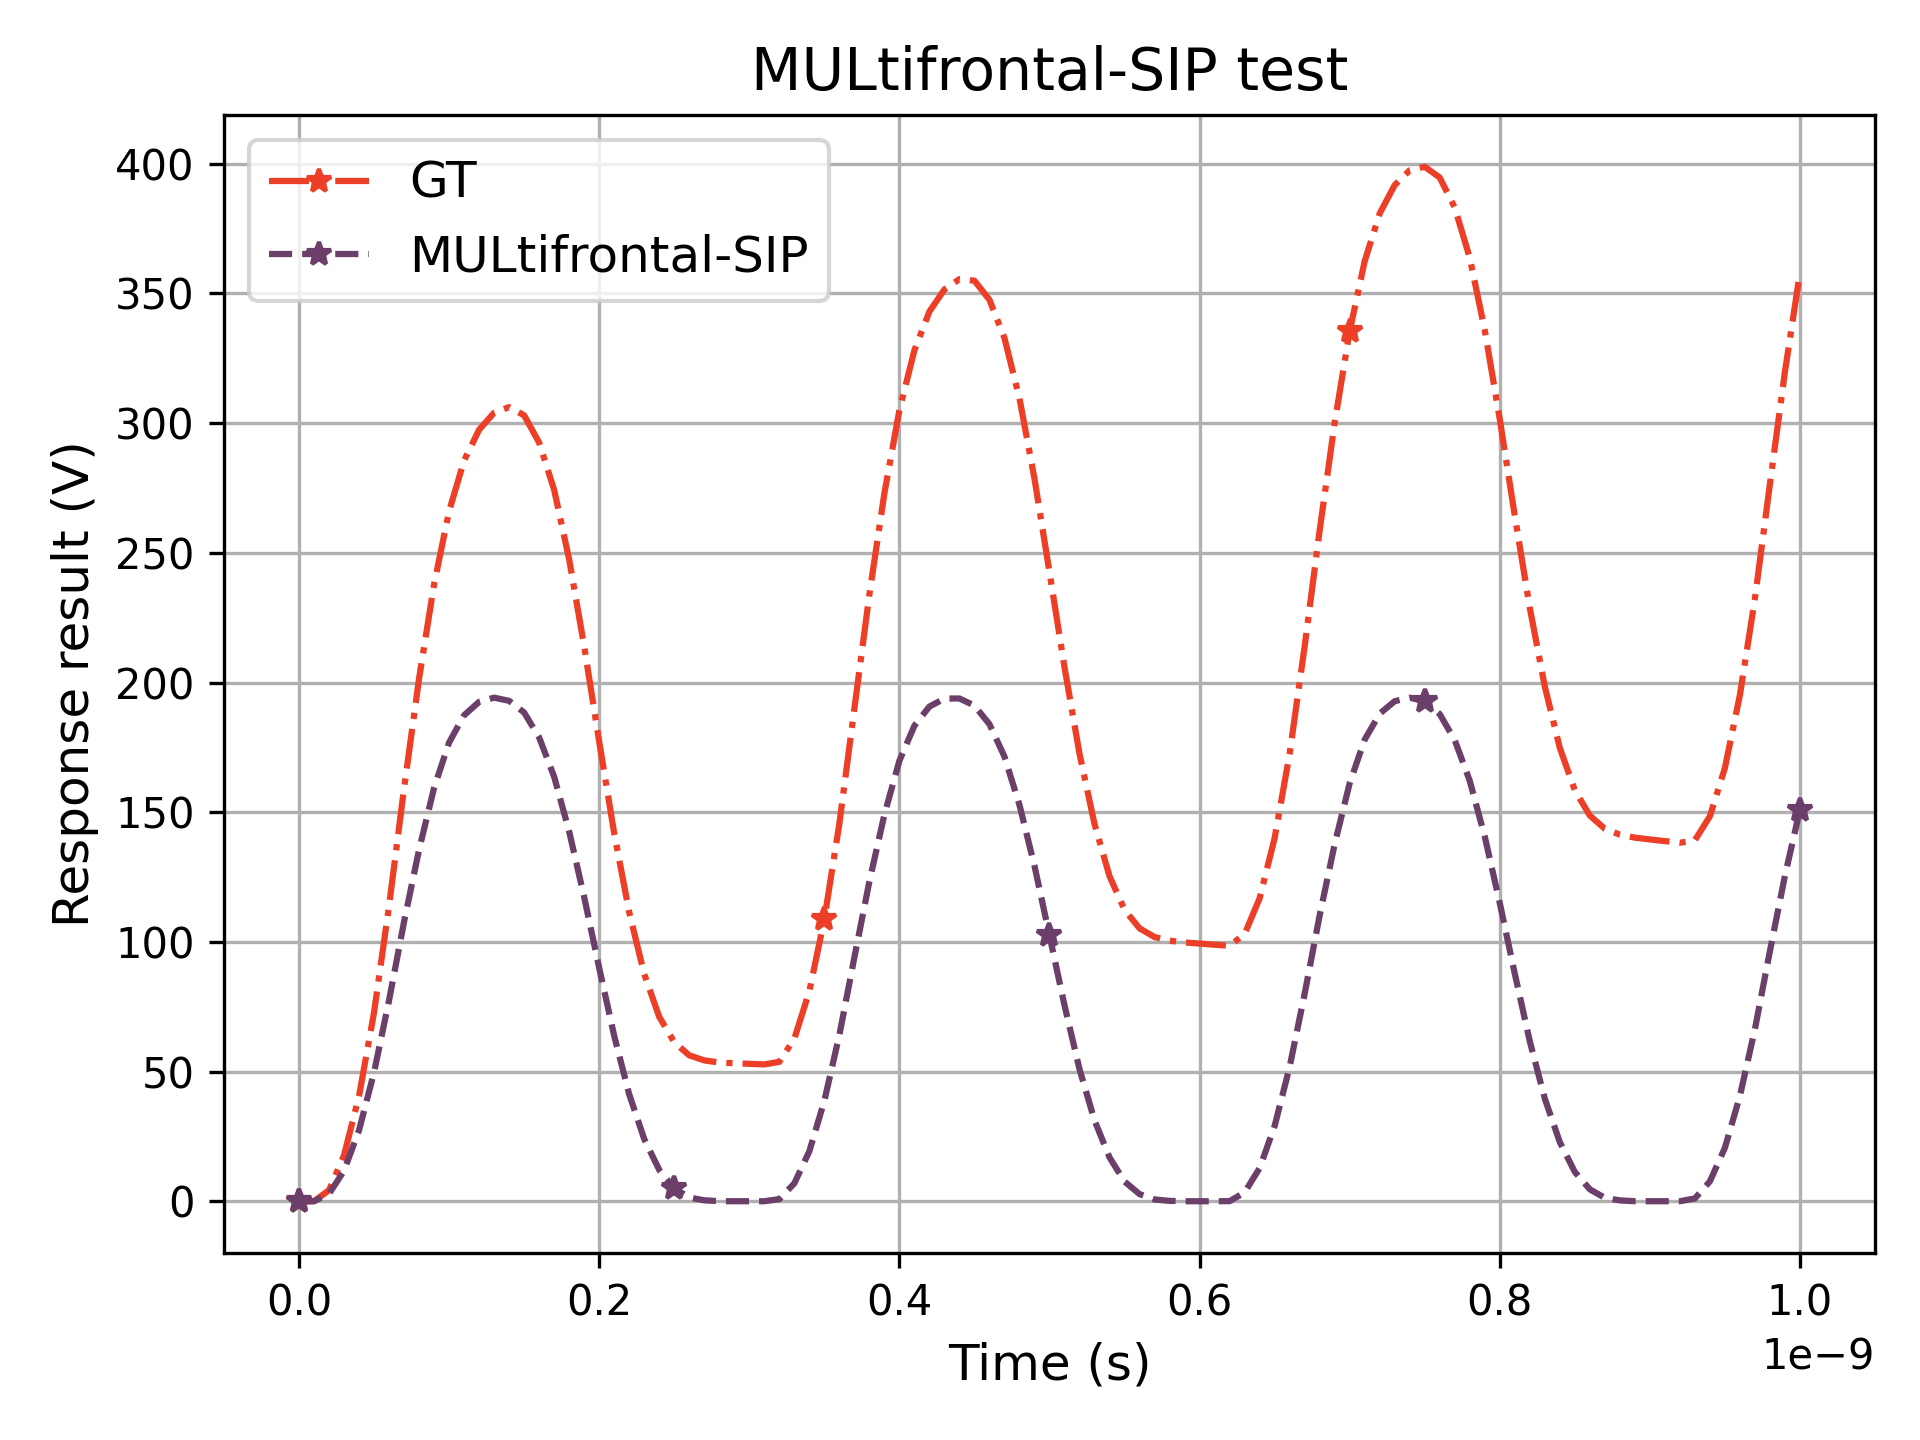
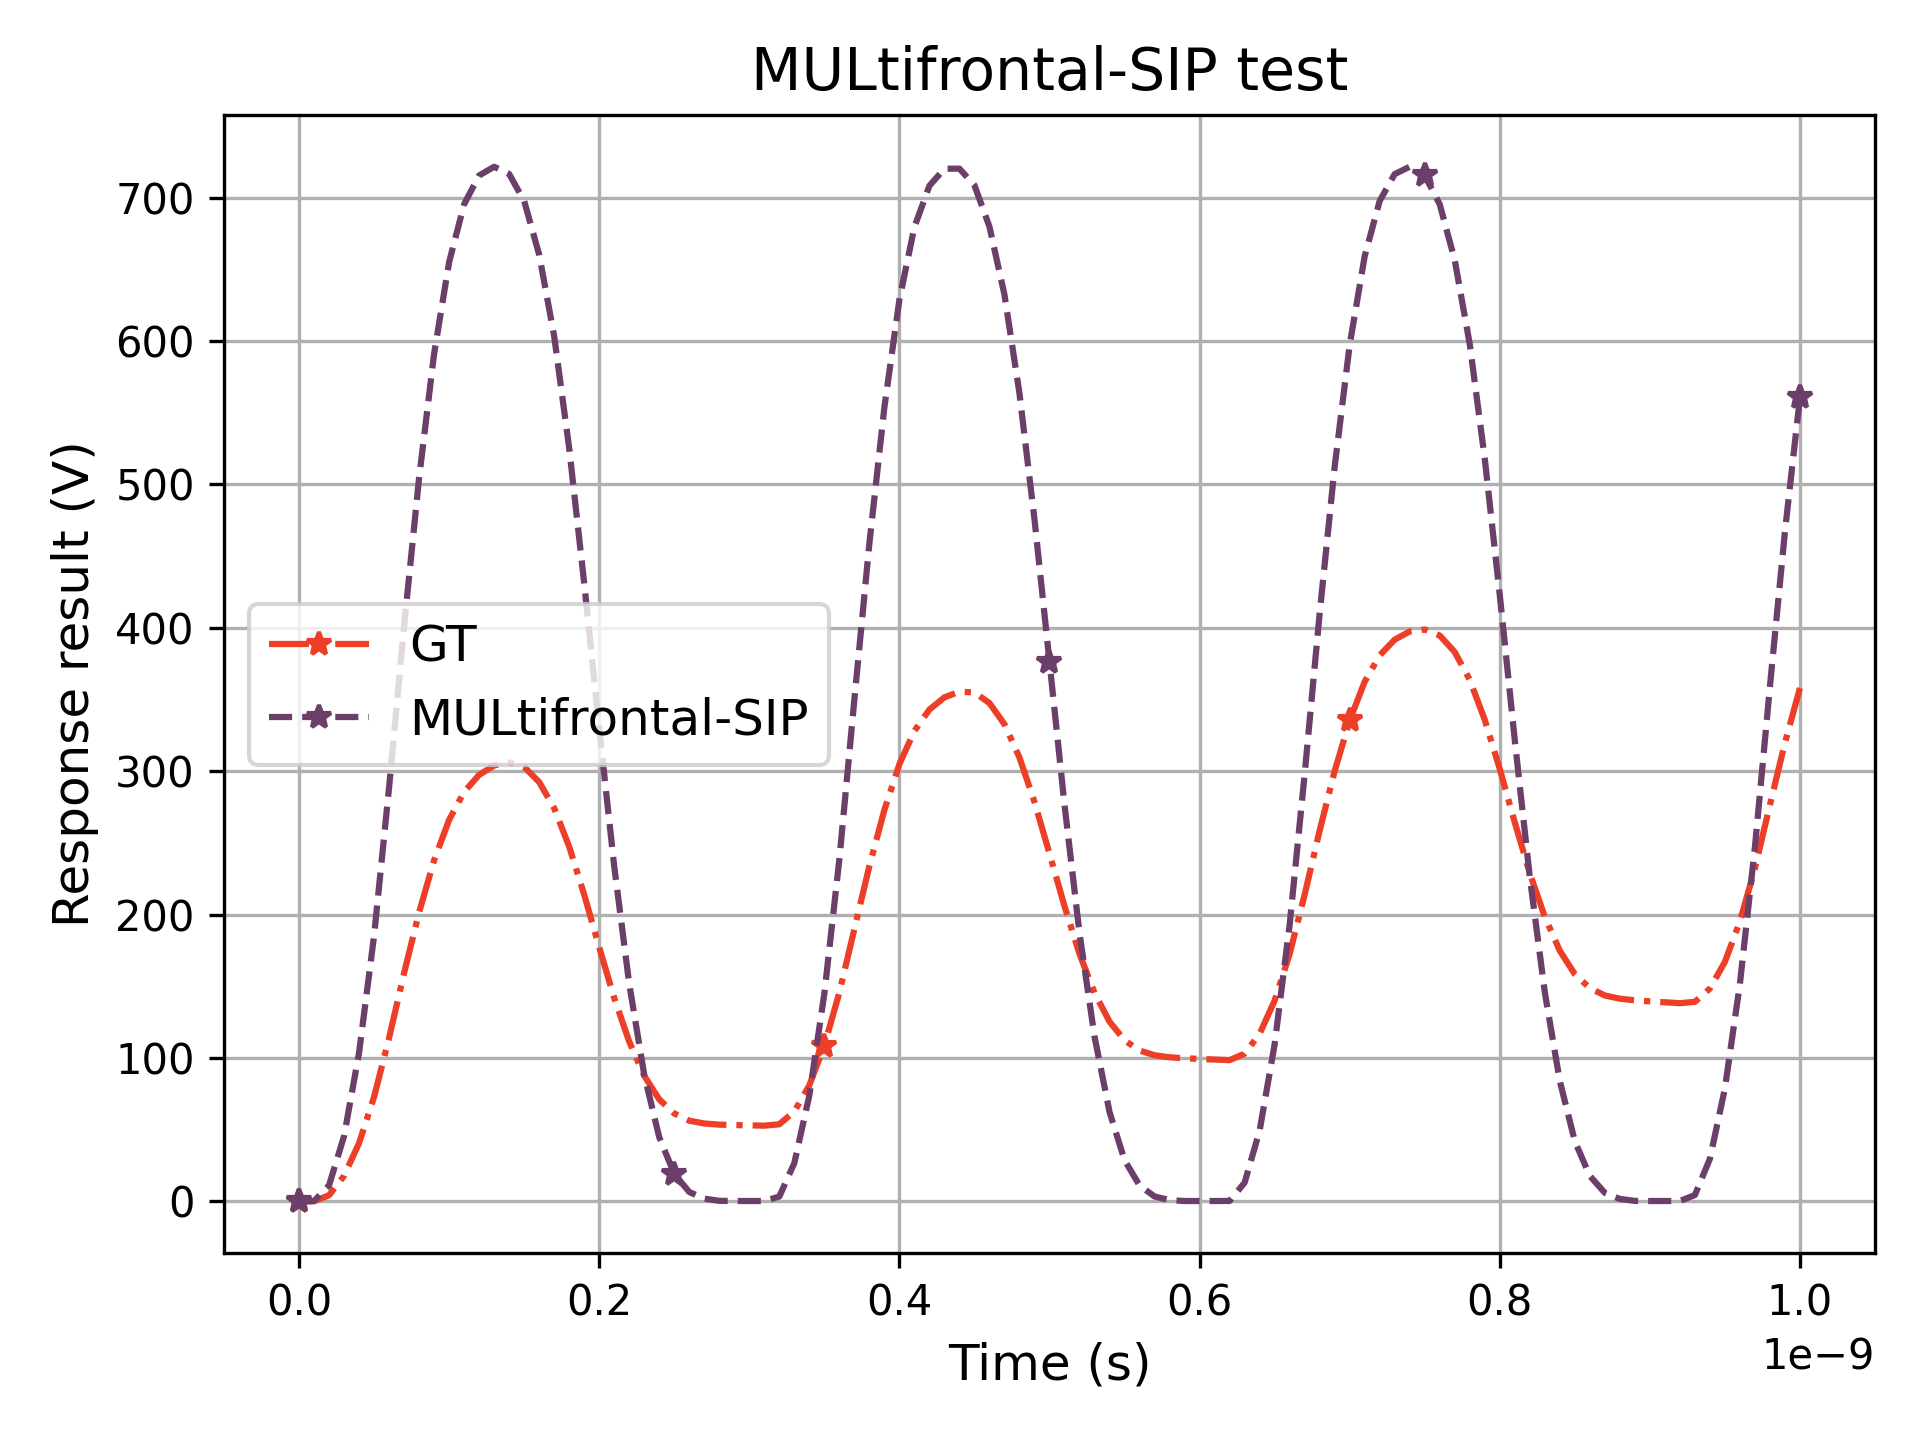
MSIP-BDSM res and verify

diff --git a/verify_msipbdsm.py b/verify_msipbdsm.py
@@ -1,7 +1,7 @@
 import numpy as np
 import argparse
 import scipy.io as spio
-from scipy.sparse import coo_matrix
+from scipy.sparse import coo_matrix, block_diag
 import matplotlib.pyplot as plt
 from generate_mf_mor_data import generate_u, generate_udiff
 from utils.tdIntLinBE_new import *
@@ -58,8 +58,7 @@ def load_coo_txt(path, shape=None, delimiter=None, comment='#', to='csr', dtype=
             parts = line.split(delimiter) if delimiter else line.split()
 
             # 第一行: 矩阵维度
-            # if detected_shape is None and len(parts) == 3 and "(" not in parts[2]:
-            if detected_shape is None :
+            if detected_shape is None:
                 detected_shape = (int(parts[0]), int(parts[1]))
                 continue
 
@@ -82,24 +81,46 @@ def load_coo_txt(path, shape=None, delimiter=None, comment='#', to='csr', dtype=
     return coo_from_triplets(rows, cols, vals, shape=final_shape, to=to, dtype=dtype)
 
 if __name__ == "__main__":
-    parser = argparse.ArgumentParser(description='vertify msip')
+    parser = argparse.ArgumentParser(description='vertify msip + BDSM')
     parser.add_argument('--circuit', type=int, default=6, help='Circuit number')
     parser.add_argument("--port_num", type=int, default= 10000)
+    parser.add_argument("--block", type=int, default= 2)
     args = parser.parse_args()
     data = spio.loadmat("/home/fillip/桌面/CPM-MOR/IBM_transient/{}t_SIP_gt.mat".format(args.circuit))
     port_num = args.port_num
+    block = args.block
     C1, G1, B1 = data['C_final'] * 1e-0, data['G_final'], data['B_final']
     B1 = B1.tocsc()
     C1 = C1.tocsc()
     G1 = G1.tocsc()
-
-    C2 = load_coo_txt(f'/home/fillip/桌面/MUMPS/MUMPS_5.7.1/examples/result/{args.circuit}t/SIP_C_sip',to = 'csr')
-    G2 = load_coo_txt(f'/home/fillip/桌面/MUMPS/MUMPS_5.7.1/examples/result/{args.circuit}t/SIP_G_sip',to = 'csr')
-    C2 = C2.tocsc()
-    G2 = G2.tocsc()
-    B2 = B1[-G2.shape[0]:,:port_num]
-
     B1 = B1[:,:port_num]
+
+    Cr = load_coo_txt(f'/home/fillip/桌面/MUMPS/MUMPS_5.7.1/examples/result/{args.circuit}t/SIP_C',to = 'csr')
+    Gr = load_coo_txt(f'/home/fillip/桌面/MUMPS/MUMPS_5.7.1/examples/result/{args.circuit}t/SIP_G',to = 'csr')
+    Cr = Cr.tocsc()
+    Gr = Gr.tocsc()
+    # Cr1 = load_coo_txt(f'/home/fillip/桌面/MUMPS/MUMPS_5.7.1/examples/result/{args.circuit}t/SIP_C1',to = 'csr')
+    # Gr1 = load_coo_txt(f'/home/fillip/桌面/MUMPS/MUMPS_5.7.1/examples/result/{args.circuit}t/SIP_G1',to = 'csr')
+    # Cr1 = Cr1.tocsc()
+    # Gr1 = Gr1.tocsc()
+    # Cr2 = load_coo_txt(f'/home/fillip/桌面/MUMPS/MUMPS_5.7.1/examples/result/{args.circuit}t/SIP_C2',to = 'csr')
+    # Gr2 = load_coo_txt(f'/home/fillip/桌面/MUMPS/MUMPS_5.7.1/examples/result/{args.circuit}t/SIP_G2',to = 'csr')
+    # Cr2 = Cr2.tocsc()
+    # Gr2 = Gr2.tocsc()
+    # Cr = block_diag((Cr1, Cr2), format="csc")
+    # Gr = block_diag((Gr1, Gr2), format="csc")
+    data1 = spio.loadmat("/home/fillip/桌面/CPM-MOR/IBM_transient/{}t_SIP1.mat".format(args.circuit))
+    B2 = data1['B_final']
+    B2 = B2.tocsc()
+
+    schur_size = port_num / block
+    B2 = B2[-5000:,:5000]
+    data2 = spio.loadmat("/home/fillip/桌面/CPM-MOR/IBM_transient/{}t_SIP2.mat".format(args.circuit))
+    B3 = data2['B_final']
+    B3 = B3.tocsc()
+    B3 = B3[-5000:,5000:10000]
+    Br = block_diag((B2, B3), format="csc")
+
     f = 9
 
     t0 = 0
@@ -112,9 +133,9 @@ if __name__ == "__main__":
     xAll, time1, dtAll, uAll = tdIntLinBE_new(t0, tf, dt, C1, G1, B1, VS, IS, x0, srcType)
     y = B1.T@xAll
 
-    xr0 = np.zeros((C2.shape[0], 1))
-    xrAll, time2, dtAll, urAll = tdIntLinBE_new(t0, tf, dt, C2, G2, B2, VS, IS, xr0, srcType)
-    y_mor = B2.T@xrAll
+    xr0 = np.zeros((Cr.shape[0], 1))
+    xrAll, time2, dtAll, urAll = tdIntLinBE_new(t0, tf, dt, Cr, Gr, Br, VS, IS, xr0, srcType)
+    y_mor = Br.T@xrAll
 
     yy = y[0,:]
     yy_mor = y_mor[0,:]
@@ -123,12 +144,12 @@ if __name__ == "__main__":
         yy_mor = yy_mor + y_mor[i,:]
 
     plt.plot(time1, yy, color='#ED3F27', linestyle='-.', marker='*', label='GT', markevery = 35, markersize=6, linewidth=1.5)
-    plt.plot(time2, yy_mor, color='#6B3F69', linestyle='--', marker='*', label='MULtifrontal-SIP', markevery = 25, markersize=6, linewidth=1.5)
+    plt.plot(time2, yy_mor, color='#6B3F69', linestyle='--', marker='*', label='MUL-SIP-BDSM', markevery = 25, markersize=6, linewidth=1.5)
     plt.xlabel("Time (s)", fontsize=12)
     plt.ylabel("Response result (V)", fontsize=12)
     plt.legend(fontsize=12)
     plt.grid()
-    plt.title("MULtifrontal-SIP test", fontsize=14)
+    plt.title("SIP-BDSM test", fontsize=14)
     plt.tight_layout()
-    plt.savefig('MULtifrontal-SIP_{}t_{}_10000.png'.format(args.circuit,f), dpi=300)
+    plt.savefig('SIP-BDSM_{}t_{}_10000.png'.format(args.circuit,f), dpi=300)
     pass

diff --git a/SVDMOR.py b/SVDMOR.py
@@ -18,79 +18,6 @@ import os
 import logging
 
 def svdmor(G, in_mat, out_mat, threshold, load_path=None):
-    
-    lu = splu(G)
-    # L = spsolve(lu.U.T, out_mat)
-    # R = spsolve(lu.L, in_mat)
-    if load_path == None:
-        # L = lu.solve(out_mat.toarray(), trans='T')  # 直接求解 U.T x = out_mat
-        # R = lu.solve(in_mat.toarray(), trans='N')
-        # L = lu.L.T @ L
-        # R = lu.U @ R
-
-        #method 1
-        # L = spsolve(lu.U.T, out_mat)
-        # R = spsolve(lu.L, in_mat)
-        # B = sp.hstack([L, R])
-        # p = L.shape[1]
-        # q = R.shape[1]
-        # E_l = sp.vstack([
-        #         sp.eye(p),
-        #         sp.csr_matrix((q, p))
-        # ])
-        # E_r = sp.vstack([  
-        #         sp.csr_matrix((p, q)), 
-        #         sp.eye(q),              
-        # ])
-
-        # B = B.toarray()
-        # U, S, V = np.linalg.svd(B, full_matrices=False)
-
-        #method 2
-        L = out_mat
-        R = spsolve(G, in_mat)
-        B = sp.hstack([L, R])
-        p = L.shape[1]
-        q = R.shape[1]
-        E_l = sp.vstack([
-                sp.eye(p),
-                sp.csr_matrix((q, p))
-        ])
-        E_r = sp.vstack([  
-                sp.csr_matrix((p, q)), 
-                sp.eye(q),              
-        ])
-        B = B.toarray()
-        U, S, V = np.linalg.svd(B, full_matrices=False)
-        
-    else:
-        p = out_mat.shape[1]
-        q = in_mat.shape[1]
-        E_l = sp.vstack([
-                sp.eye(p),
-                sp.csr_matrix((q, p))
-        ])
-        E_r = sp.vstack([  
-                sp.csr_matrix((p, q)), 
-                sp.eye(q),              
-        ])
-        U = np.load(load_path+r"/U.npy")
-        S = np.load(load_path+r"/S.npy")
-        V = np.load(load_path+r"/V.npy")
-
-    indices = S >= threshold
-    U_new = U[:, indices]               
-    S_new = S[indices]                  
-    V_new = V[indices, :]
-
-    left = np.diag(S_new)@V_new@E_l
-    right = np.diag(S_new)@V_new@E_r
-    B_r = lu.L@ U_new
-    O_r = lu.U.T@U_new
-
-    return left, right, B_r, O_r
-
-def svdmor_2(G, in_mat, out_mat, threshold, load_path=None):
     if load_path == None:
         L = out_mat
         R = spsolve(G, in_mat)
@@ -127,7 +54,7 @@ def svdmor_2(G, in_mat, out_mat, threshold, load_path=None):
     V_new = V[indices, :]
     left = np.diag(S_new)@V_new@E_l
     right = np.diag(S_new)@V_new@E_r
-    B_r = G@ U_new
+    B_r = G @ U_new
     O_r = U_new
 
     return left, right, B_r, O_r
@@ -157,7 +84,7 @@ if __name__ == '__main__':
     O = B
     
     tic = datetime.now()
-    left, right, B_r, O_r = svdmor_2(G, B, O, threshold = 2,load_path='/home/fillip/home/CPM-MOR/SVDMOR2_res/{}t/'.format(args.circuit))    
+    left, right, B_r, O_r = svdmor(G, B, O, threshold = 2,load_path='/home/fillip/home/CPM-MOR/SVDMOR2_res/{}t/'.format(args.circuit))    
     toc = datetime.now()
     ts = toc - tic
     logging.info("SVD completed. Time used: {}s".format(ts))

diff --git a/verify_preproces.py b/verify_preproces.py
@@ -1,0 +1,60 @@
+import argparse
+import scipy.io as spio
+from scipy.sparse import identity
+import matplotlib.pyplot as plt
+from generate_mf_mor_data import generate_u, generate_udiff
+from utils.tdIntLinBE_new import *
+
+if __name__ == "__main__":
+    parser = argparse.ArgumentParser(description='vertify preproces')
+    parser.add_argument('--circuit', type=int, default=1, help='Circuit number')
+    parser.add_argument("--port_num", type=int, default= 2000)
+    args = parser.parse_args()
+    data = spio.loadmat("/home/fillip/桌面/CPM-MOR/IBM_transient/{}t_SIP.mat".format(args.circuit))
+    port_num = args.port_num
+    C1, G1, B1 = data['C_final'] * 1e-0, data['G_final'], data['B_final']
+    B1 = B1.tocsc()
+    C1 = C1.tocsc()
+    G1 = G1.tocsc()
+    B1 = B1[:,:port_num]
+
+    data = spio.loadmat("/home/fillip/桌面/CPM-MOR/IBM_transient/{}t_SIP.mat".format(args.circuit))
+    C2, G2, B2 = data['C_final'] * 1e-0, data['G_final'], data['B_final']
+    B2 = B2.tocsc()
+    C2 = C2.tocsc()
+    G2 = G2.tocsc()
+    B2 = B2[:,:port_num]
+
+    # G2 = G2 + 1e-10 * identity(G2.shape[0], format="csc")
+    C2 = C2 + 1e-20 * identity(C2.shape[0], format="csc")
+
+    t0 = 0
+    tf = 1e-09
+    dt = 1e-11
+    srcType = 'pulse'
+    IS, VS = generate_udiff(args.port_num, args.circuit, seed = 0)
+    x0 = np.zeros((C1.shape[0], 1))
+
+    xAll, time1, dtAll, uAll = tdIntLinBE_new(t0, tf, dt, C1, G1, B1, VS, IS, x0, srcType)
+    y = B1.T@xAll
+
+    xr0 = np.zeros((C2.shape[0], 1))
+    xrAll, time2, dtAll, urAll = tdIntLinBE_new(t0, tf, dt, C2, G2, B2, VS, IS, xr0, srcType)
+    y_mor = B2.T@xrAll
+
+    yy = y[0,:]
+    yy_mor = y_mor[0,:]
+    for i in range(1, port_num):
+        yy = yy + y[i,:]
+        yy_mor = yy_mor + y_mor[i,:]
+
+    plt.plot(time1, yy, color='#ED3F27', linestyle='-.', marker='*', label='GT', markevery = 35, markersize=6, linewidth=1.5)
+    plt.plot(time2, yy_mor, color='#6B3F69', linestyle='--', marker='*', label='preprocessed', markevery = 25, markersize=6, linewidth=1.5)
+    plt.xlabel("Time (s)", fontsize=12)
+    plt.ylabel("Response result (V)", fontsize=12)
+    plt.legend(fontsize=12)
+    plt.grid()
+    plt.title("SIP-verify test", fontsize=14)
+    plt.tight_layout()
+    plt.savefig('SIP_{}t_verify.png'.format(args.circuit), dpi=300)
+    pass

diff --git a/save_coo.py b/save_coo.py
@@ -78,7 +78,7 @@ def save_aligned_coo(G, C, prefix="matrix"):
     print(f"Aligned sparse matrices saved to {prefix}_G.txt and {prefix}_C.txt")
 
 
-def save_aligned_coo_mumps(G, C, prefix="matrix"):
+def save_aligned_coo_mumps(G, C, circuit, prefix="matrix"):
     """
     将两个稀疏矩阵 G, C 保存为 MUMPS 可读的复数 COO 格式
     - 文件格式: row col (real,imag)
@@ -115,8 +115,8 @@ def save_aligned_coo_mumps(G, C, prefix="matrix"):
                 f.write(f"{r} {c} ({np.real(v):.18e},{np.imag(v):.18e})\n")
 
     # 保存 G, C
-    write_matrix(f"{prefix}_G", G_val)
-    write_matrix(f"{prefix}_C", C_val)
+    write_matrix(f"./SIP_matrix/{circuit}t/{prefix}_G", G_val)
+    write_matrix(f"./SIP_matrix/{circuit}t/{prefix}_C", C_val)
 
     print(f"Saved aligned matrices to {prefix}_G and {prefix}_C (MUMPS format)")
 
@@ -126,22 +126,22 @@ def save_aligned_coo_mumps(G, C, prefix="matrix"):
 # 示例
 if __name__ == "__main__":
     # 构造一个简单的稀疏矩阵
-    circuit = 2
-    data = spio.loadmat("/home/fillip/桌面/CPM-MOR/IBM_transient/{}t_final.mat".format(circuit))
+    circuit = 6
+    data = spio.loadmat("/home/fillip/桌面/CPM-MOR/IBM_transient/{}t_SIP_gt.mat".format(circuit))
     C, G, B = data['C_final'] * 1e-0, data['G_final'], data['B_final']
     B = B.tocsc()
     C = C.tocsc()
     G = G.tocsc()
-    G = G + 1e-10 * identity(G.shape[0], format="csc")
+    # G = G + 1e-10 * identity(G.shape[0], format="csc")
     C = C + 1e-20 * identity(C.shape[0], format="csc")
 
-    f = np.array(0)  # array of targeting frequencies
+    f = np.array(1e9)  # array of targeting frequencies
     s = 1j * 2 * np.pi * f
     G = G + s * C
 
     # save_sparse_to_coo_txt(C, "1tcoo_C")
     # save_sparse_to_coo_txt(G, "1tcoo_G")
-    # save_sparse_to_coo_txt(B, "1tcoo_B")
+    # save_sparse_to_coo_txt(B, "2tcoo_B")
     # save_sparse_to_coo_txt(G + C, "1tcoo_GC")
-    save_aligned_coo_mumps(G, C, prefix="aligned")
+    save_aligned_coo_mumps(G, C, circuit, prefix="aligned")
     pass

diff --git a/analysis_code/input_analysis.py b/analysis_code/input_analysis.py
@@ -46,10 +46,10 @@ def npy2mat():
 
 # 示例用法
 if __name__ == "__main__":
-    # data = spio.loadmat("./IBM_transient/thupg1t.mat")
-    # C, G, B = data['E'] * 1e-0, data['A'], data['B']
-    # B = B.tocsc()
-    # mat = csr_matrix(B)
-    # find_rows_with_multiple_nonz(mat)
-    npy2mat()
+    data = spio.loadmat("./IBM_transient/ibmpg3t.mat")
+    C, G, B = data['E'] * 1e-0, data['A'], data['B']
+    B = B.tocsc()
+    mat = csr_matrix(B)
+    find_rows_with_multiple_nonz(mat)
+    # npy2mat()
     pass
